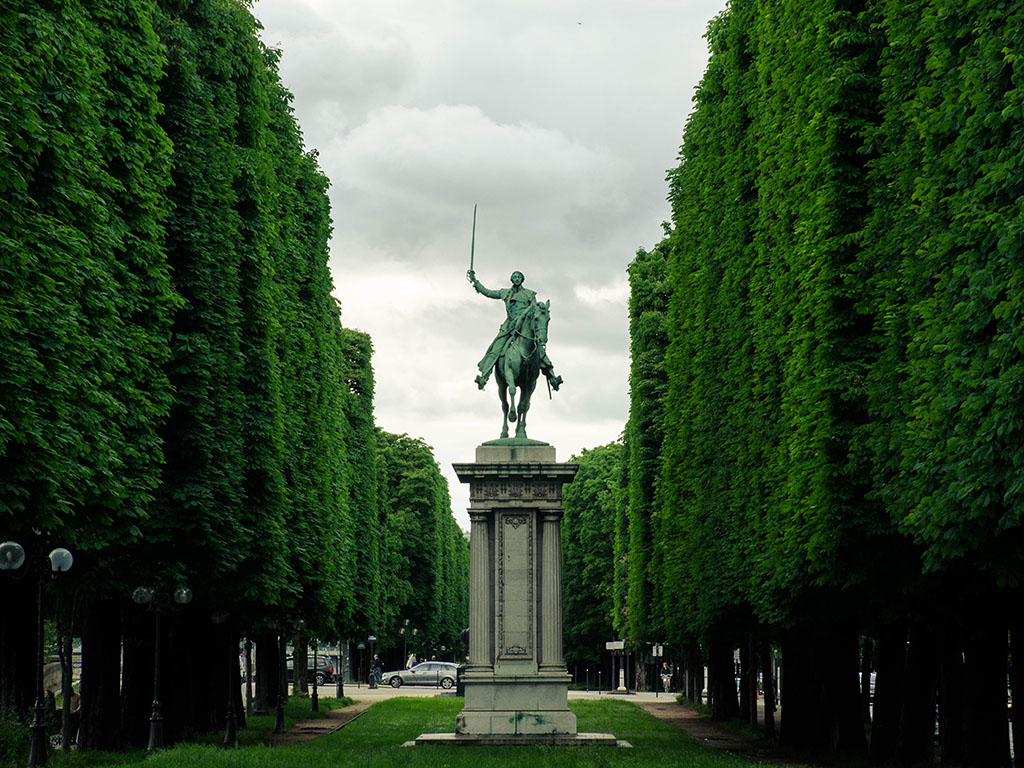
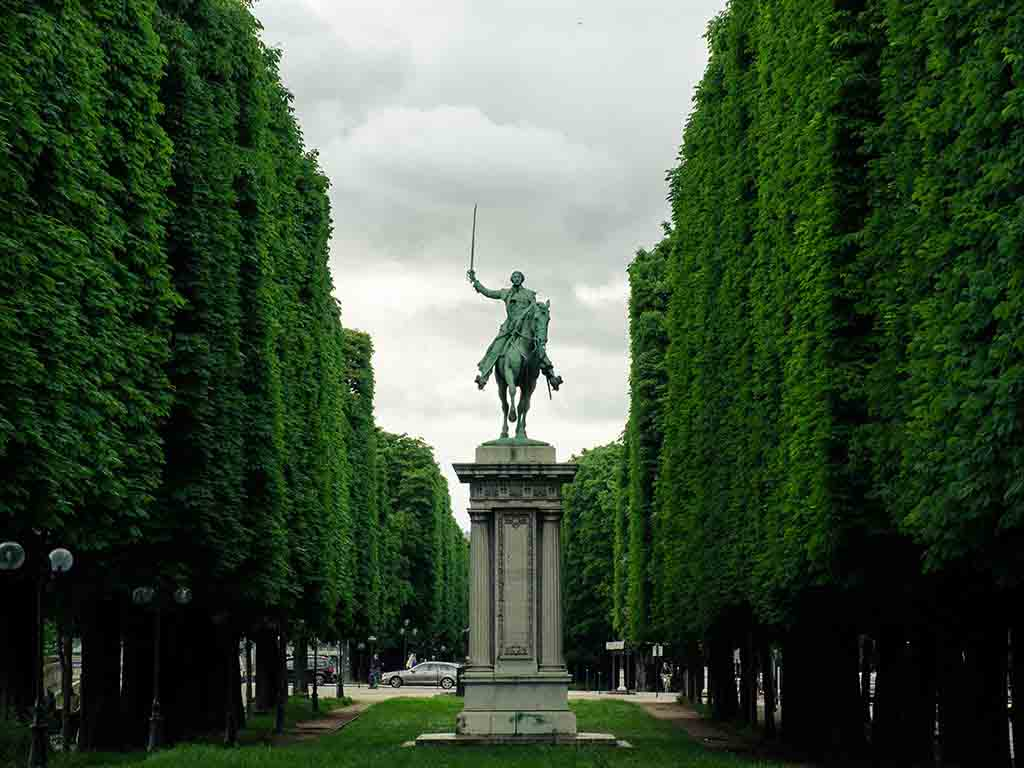
Optimize images

diff --git a/index.html b/index.html
@@ -157,56 +157,56 @@
             <div class="col-sm-4 col-md-3">
                 <div class="box">
                     <a class="external" href="https://www.youtube.com/watch?v=Kg7np34Xe9w" title="">
-                        <img src="img/video/paris.png" alt="" class="img-responsive">
+                        <img src="img/video/paris.jpg" alt="" class="img-responsive">
                     </a>
                 </div>
             </div>
             <div class="col-sm-4 col-md-3">
                 <div class="box">
                     <a class="external" href="https://www.youtube.com/watch?v=1WkK941x_7o" title="">
-                        <img src="img/video/mauritius.png" alt="" class="img-responsive">
+                        <img src="img/video/mauritius.jpg" alt="" class="img-responsive">
                     </a>
                 </div>
             </div>
             <div class="col-sm-4 col-md-3">
                 <div class="box">
                     <a class="external" href="https://www.youtube.com/watch?v=dKiTJuJwNCY" title="">
-                        <img src="img/video/puri.png" alt="" class="img-responsive">
+                        <img src="img/video/puri.jpg" alt="" class="img-responsive">
                     </a>
                 </div>
             </div>
             <div class="col-sm-4 col-md-3">
                 <div class="box">
                     <a class="external" href="https://www.youtube.com/watch?v=cL9chXLnFA4" title="">
-                        <img src="img/video/sf.png" alt="" class="img-responsive">
+                        <img src="img/video/sf.jpg" alt="" class="img-responsive">
                     </a>
                 </div>
             </div>
             <div class="col-sm-4 col-md-3">
                 <div class="box">
                     <a class="external" href="https://www.youtube.com/watch?v=67_F0atXUhA" title="">
-                        <img src="img/video/london.png" alt="" class="img-responsive">
+                        <img src="img/video/london.jpg" alt="" class="img-responsive">
                     </a>
                 </div>
             </div>
             <div class="col-sm-4 col-md-3">
                 <div class="box">
                     <a class="external" href="https://www.youtube.com/watch?v=fhOOQW68TE4" title="">
-                        <img src="img/video/dh.png" alt="" class="img-responsive">
+                        <img src="img/video/dh.jpg" alt="" class="img-responsive">
                     </a>
                 </div>
             </div>
             <div class="col-sm-4 col-md-3">
                 <div class="box">
                     <a class="external" href="https://www.youtube.com/watch?v=7qhO8yCMfpg" title="">
-                        <img src="img/video/bike.png" alt="" class="img-responsive">
+                        <img src="img/video/bike.jpg" alt="" class="img-responsive">
                     </a>
                 </div>
             </div>
             <div class="col-sm-4 col-md-3">
                 <div class="box">
                     <a class="external" href="https://www.youtube.com/watch?v=UEeTsQzYiXE" title="">
-                        <img src="img/video/durdle.png" alt="" class="img-responsive">
+                        <img src="img/video/durdle.jpg" alt="" class="img-responsive">
                     </a>
                 </div>
             </div>
